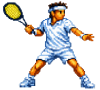
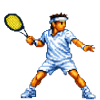
Serve and net stances; serve leaves the racket and arcs
Players now change pose during a rally: the server holds a serve stance
across both attempts until the serve lands, and anyone standing at the net
crouches into a volley stance. Net beats serve, since you cannot serve from
there. All twelve sprites are preloaded so the swap never flashes.

The new art arrived as "p1 f serve.png" - spaces in a URL and a different
gender abbreviation from the p1-fem.png already in the build. Renamed to
extend the existing scheme: p1-fem-serve.png, p1-male-net.png, and so on.

The poses were also drawn on a 100x100 canvas against the old 100x89, and
they fill it differently - the crouching volley figure is 83px tall, the
serving man 98px. At a fixed CSS height that renders every pose at a
different scale with the feet at different heights. All twelve are now
trimmed to their content and re-canvased to a common 100x100 with the feet
on the bottom edge, so one CSS height keeps the scale consistent and the
feet within ~2px of the same line, while each pose keeps its real relative
height. Originals are in .sprite-backup/ (untracked).

Two shot-drawing fixes:

- A serve started at the player's centre, so the ball appeared to come out
  of their chest. It now leaves the top of the sprite, read from the pose
  actually on screen. Measured: 20px above centre, 6px below the sprite's
  top edge - the raised racket. Ground strokes are untouched.
- A flat serve has spin 0, which drew it as a dead straight line. It now
[…]

diff --git a/visuals.js b/visuals.js
@@ -39,7 +39,7 @@ function ensureShotStyles() {
       box-shadow: 0 0 7px rgba(204,255,0,.9), 0 1px 2px rgba(0,0,0,.4);
     }
     .player-token.player-sprite {
-      width: auto; height: 46px; border: none; background: none; box-shadow: none;
+      width: auto; height: 52px; border: none; background: none; box-shadow: none;
       border-radius: 0; filter: drop-shadow(0 2px 3px rgba(0,0,0,.55));
     }`;
   document.head.appendChild(s);
@@ -50,6 +50,25 @@ function ensureShotStyles() {
 function clearShotLine() {
   if (currentShotLine) { currentShotLine.remove(); currentShotLine = null; }
   if (currentShotBall) { currentShotBall.remove(); currentShotBall = null; }
+}
+
+/**
+ * Where a shot leaves the player. Normally the middle of their zone, but a
+ * serve is struck above the head — starting it at the player's centre makes
+ * the ball look like it comes out of their chest. Reads the sprite's own box
+ * so it follows whatever pose is on screen.
+ */
+function shotOrigin(id, courtRect, fromTop) {
+  const c = zoneCenter(id, courtRect);
+  if (!c || !fromTop) return c;
+  const sprite = document.querySelector(`[data-id="${id}"] .player-sprite`);
+  if (sprite) {
+    const r = sprite.getBoundingClientRect();
+    // Sprites are bottom-aligned in a common canvas, so the raised racket and
+    // the tossed ball sit in the top tenth of the box.
+    if (r.height) return { x: c.x, y: r.top - courtRect.top + r.height * 0.12 };
+  }
+  return { x: c.x, y: c.y - 22 };   // no sprite (headless/tests): top of a 52px box
 }
 
 // Centre of a court zone, in coordinates relative to the court (so the shot
@@ -68,7 +87,7 @@ function zoneCenter(id, courtRect) {
  * The layer lives inside #court (court-relative coords) so it scrolls with the
  * court; #court has overflow:visible so a high lob still arcs into the score bar.
  */
-function drawShotLine(fromPosition, toPosition, playerSide, curveSpin = 0, power = 5) {
+function drawShotLine(fromPosition, toPosition, playerSide, curveSpin = 0, power = 5, fromTop = false) {
   clearShotLine();
   ensureShotStyles();
 
@@ -76,7 +95,7 @@ function drawShotLine(fromPosition, toPosition, playerSide, curveSpin = 0, power
   if (!court) return;
   const courtRect = court.getBoundingClientRect();
 
-  const from = zoneCenter(`${playerSide}-${fromPosition}`, courtRect);
+  const from = shotOrigin(`${playerSide}-${fromPosition}`, courtRect, fromTop);
   if (!from) return;
 
   const opp = playerSide === 'p1' ? 'p2' : 'p1';
@@ -135,8 +154,34 @@ function drawShotLine(fromPosition, toPosition, playerSide, curveSpin = 0, power
  * shows one male + one female.
  * @param {boolean} shiftToCenter - true when the last shot was neutral direction
  */
+// Poses each sprite comes in: neutral, serving, and crouched at the net.
+const SPRITE_STANCES = ['', '-serve', '-net'];
+let spritesPreloaded = false;
+
+/** Warm the browser cache so swapping pose mid-rally doesn't flash. */
+function preloadSprites() {
+  if (spritesPreloaded || typeof Image === 'undefined') return;
+  spritesPreloaded = true;
+  for (const p of ['p1', 'p2'])
+    for (const g of ['fem', 'male'])
+      for (const st of SPRITE_STANCES) { const i = new Image(); i.src = `${p}-${g}${st}.png`; }
+}
+
+/**
+ * Which pose a player is drawn in. Standing at the net wins over serving (you
+ * cannot serve from there), and the serve pose holds across both attempts —
+ * until the serve lands and the rally proper begins (incomingPower > 0).
+ */
+function spriteStance(player, idx) {
+  if (player.position === 'Net') return '-net';
+  const isServer    = typeof servingPlayer !== 'undefined' && idx === servingPlayer;
+  const beforeRally = typeof incomingPower === 'undefined' || incomingPower === 0;
+  return (isServer && beforeRally) ? '-serve' : '';
+}
+
 function renderCourtPositions(players, currentPlayerIndex = -1, shiftToCenter = false) {
   ensureShotStyles();
+  preloadSprites();
   document.querySelectorAll('.player-token').forEach(el => el.remove());
 
   const aiVer = (typeof aiVersion !== 'undefined' && aiVersion) ? aiVersion[1] : 2;
@@ -151,7 +196,7 @@ function renderCourtPositions(players, currentPlayerIndex = -1, shiftToCenter = 
     const gender = idx === 1 ? (aiIsFem ? 'fem' : 'male') : (aiIsFem ? 'male' : 'fem');
     const img = document.createElement('img');
     img.className = 'player-token player-sprite';
-    img.src = `${prefix}-${gender}.png`;
+    img.src = `${prefix}-${gender}${spriteStance(player, idx)}.png`;
     img.alt = `P${idx + 1}`;
 
     // P1: BR at bottom (top:75%) shifts up→22%, BL at top (top:25%) shifts down→78%

diff --git a/game.js b/game.js
@@ -395,7 +395,13 @@ function shotVisual(player, opponent, card, shotOriginPosition, shotSpin) {
   else if (card.smashable)            curveSpin = 4;                 // полусвечка
   else curveSpin = Math.max(0, Math.min(3, shotSpin));              // 0–3 (3 via blue discard)
 
-  return { from, to, curveSpin };
+  // Cosmetic only: a flat serve has spin 0, which would draw it as a dead
+  // straight laser. Give it half the kick serve's curve so it still reads as a
+  // ball flying over a net. Nothing here feeds the dice — shotSpin is untouched.
+  if (card.type === 'serve') curveSpin = Math.max(1, curveSpin);
+
+  // Serves leave the racket above the head, not from the player's middle.
+  return { from, to, curveSpin, fromTop: card.type === 'serve' };
 }
 
 // ===== MAIN PLAY ACTION =====
@@ -545,7 +551,7 @@ function playCard(playerIndex, cardIndex) {
     const playerSide = playerIndex === 0 ? 'p1' : 'p2';
     const vis = shotVisual(player, opponent, card, shotOriginPosition, shotSpin);
     const effPower = shotPower + (card.powershot ? pendingPowershotBonus : 0);
-    drawShotLine(vis.from, vis.to, playerSide, vis.curveSpin, effPower);
+    drawShotLine(vis.from, vis.to, playerSide, vis.curveSpin, effPower, vis.fromTop);
     opponent.inPosition = !calcOpponentOutOfPosition(card, shotOriginPosition, opponent);
 
     // Post-hit movement: approach / dropshot advance to the net. The sideways
@@ -646,7 +652,7 @@ function playCard(playerIndex, cardIndex) {
 
     const playerSide = playerIndex === 0 ? 'p1' : 'p2';
     const vis = shotVisual(player, opponent, card, player.position, shotSpin);
-    drawShotLine(vis.from, vis.to, playerSide, vis.curveSpin, shotPower);
+    drawShotLine(vis.from, vis.to, playerSide, vis.curveSpin, shotPower, vis.fromTop);
 
     endPoint(1 - playerIndex);
     render(players, currentPlayer, gameLog);
